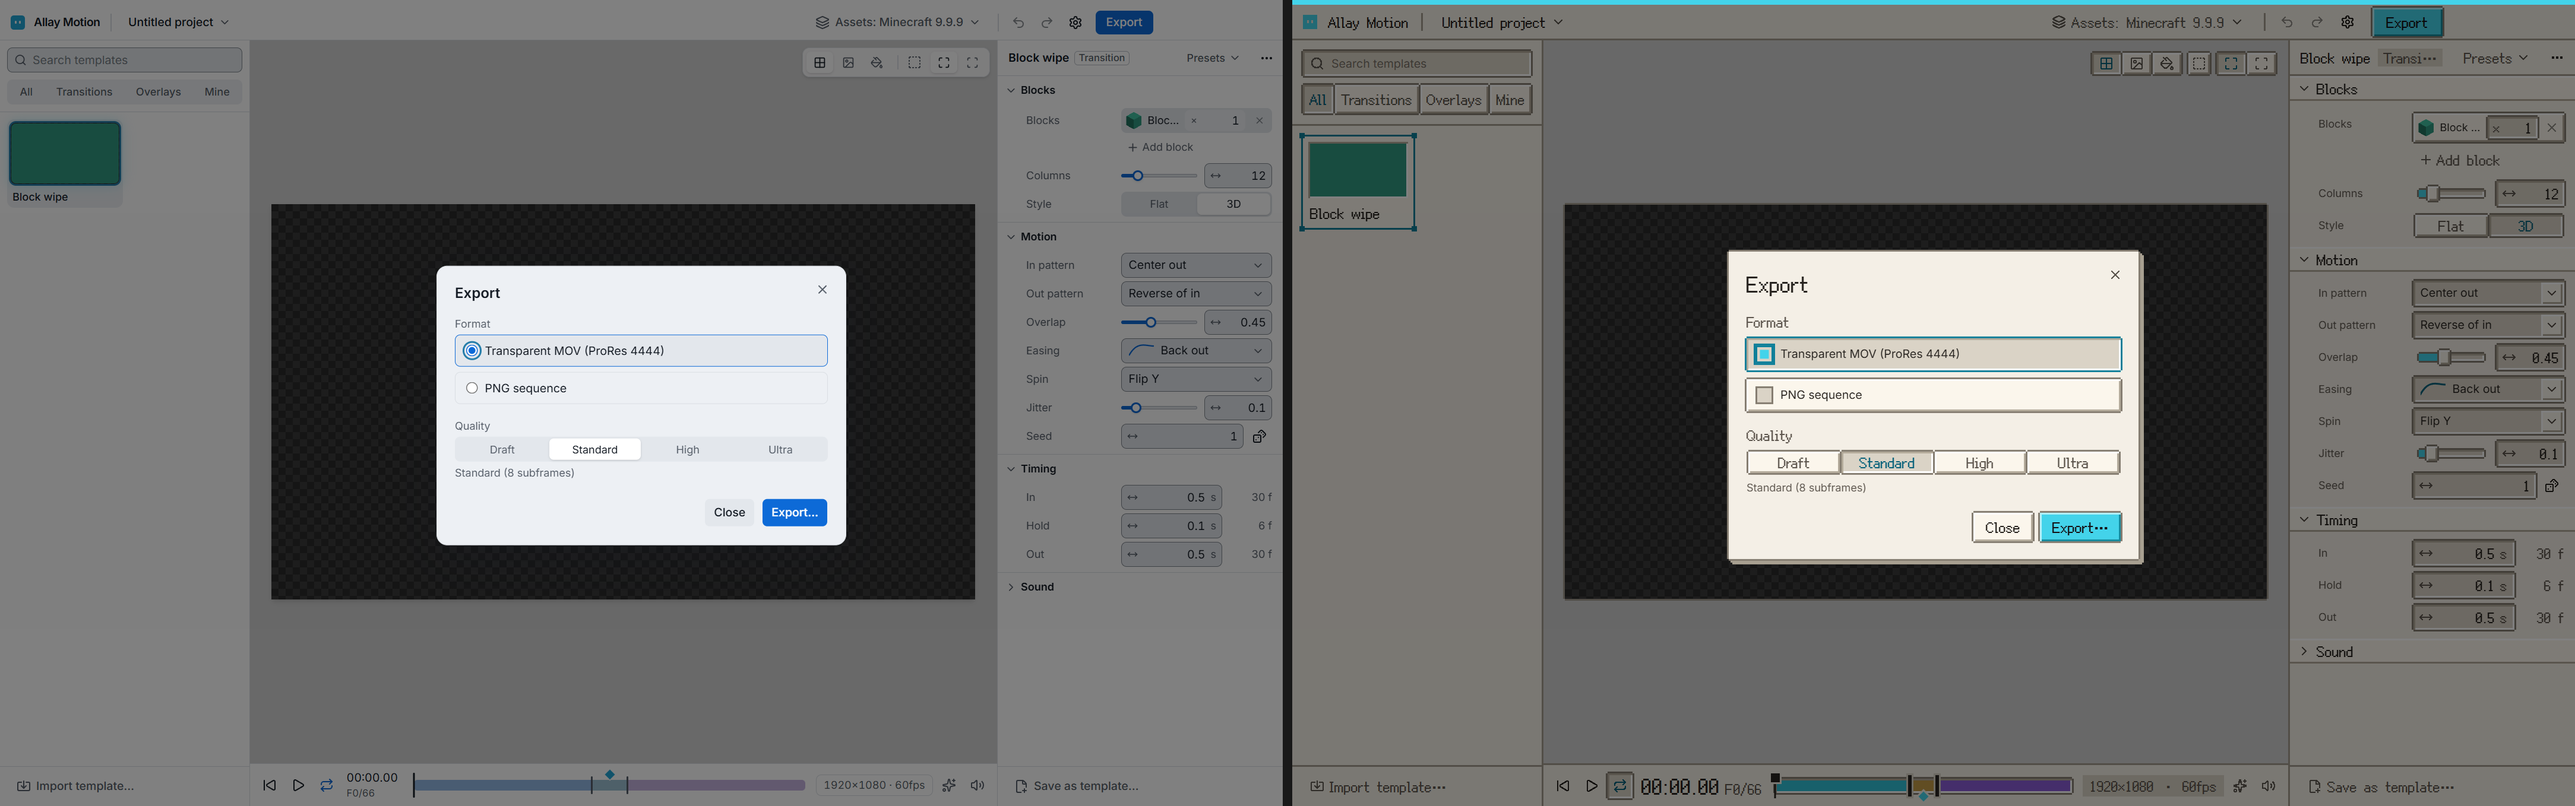
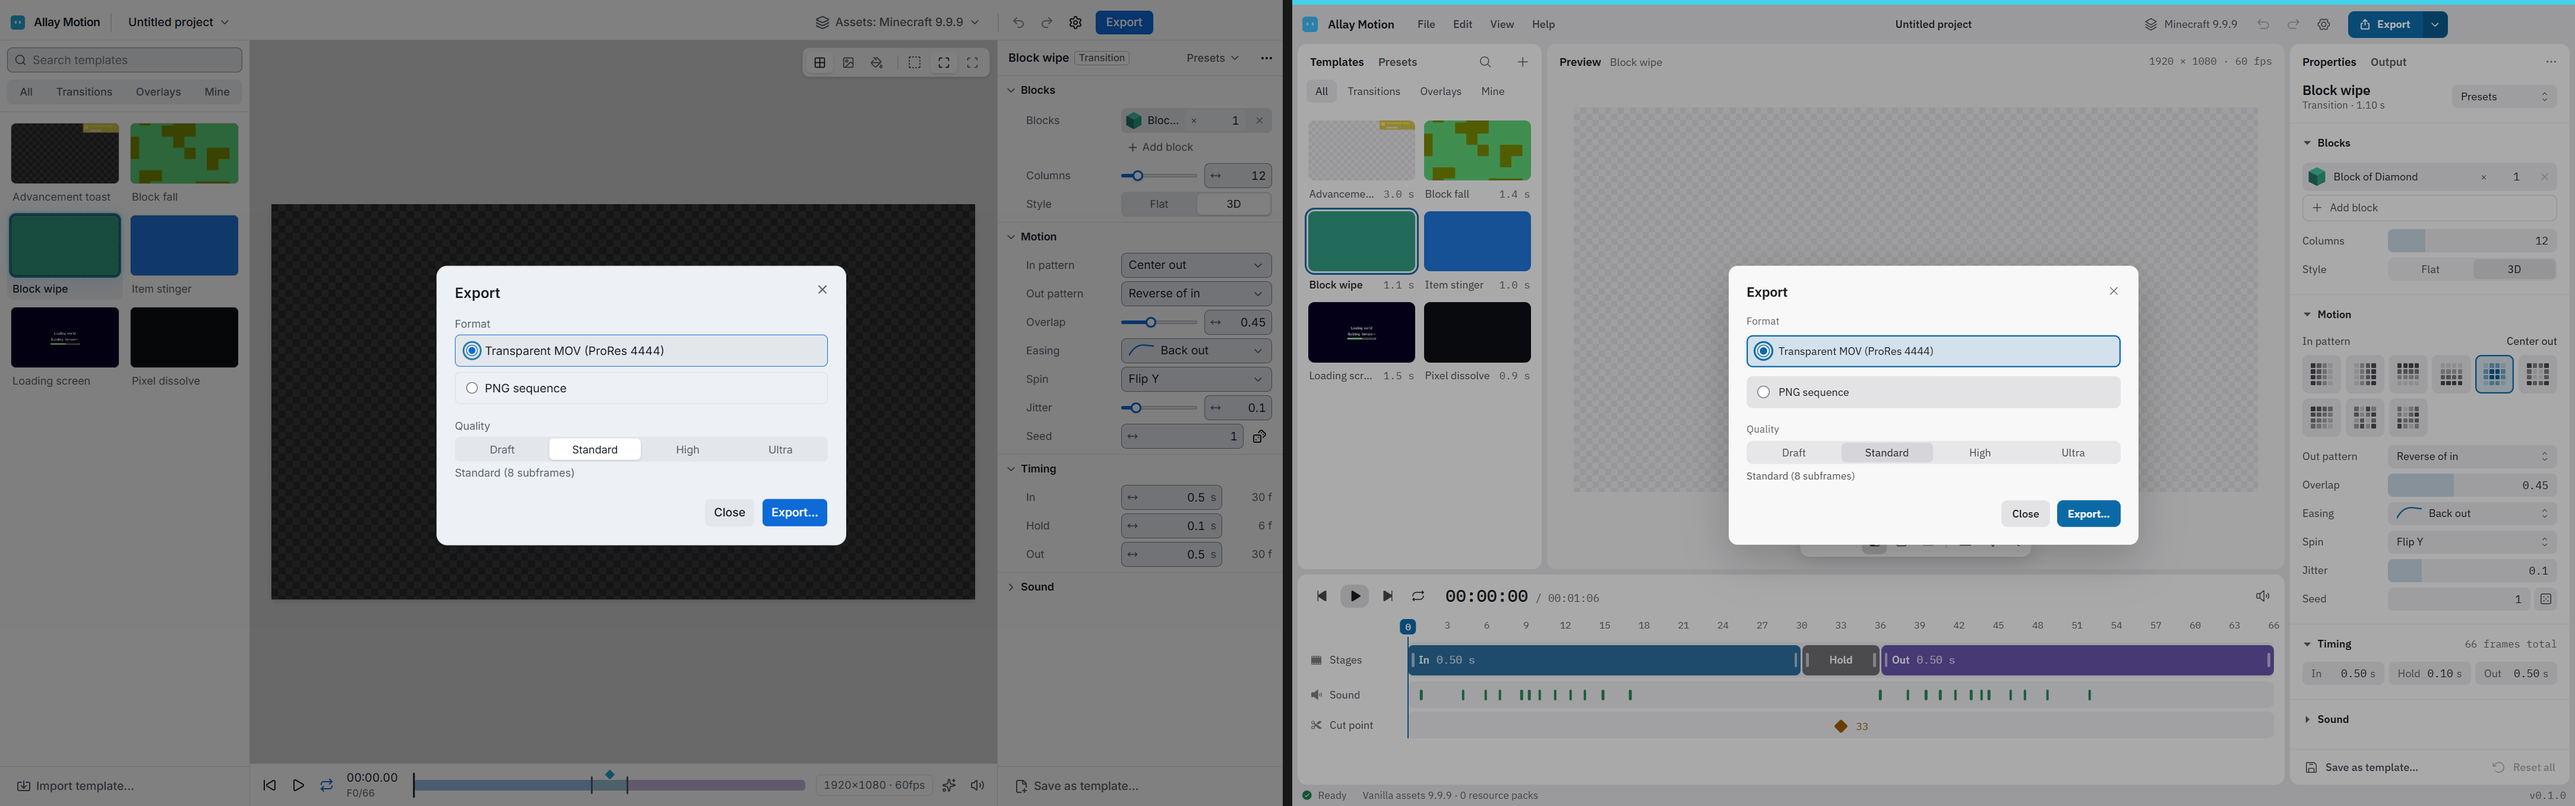
docs: 第四版界面的改前改后对照图、定稿对照图和评审说明

diff --git a/scripts/review-ui-redesign.ts b/scripts/review-ui-redesign.ts
@@ -3,7 +3,9 @@
 //
 //   --shots=<目录>   只截图，把每个场景的 PNG 写进这个目录（改前用旧代码跑一次，改后再跑一次）
 //   --compose=<改前目录>,<改后目录>   把两组截图左右并排拼成 docs/review/ui-redesign/<场景>.png（左改前、右改后）
+//   --design=<定稿图>,<截图>   把定稿图（按截图的高度放大）和实际界面左右并排，写成 docs/review/ui-redesign/design-vs-app.png
 //   --only=<名字片段>   只处理名字含这个片段的场景
+// 新界面独有的场景（菜单、预设页、输出页）在旧界面上用最接近的东西代替：工程菜单、预设下拉、输出规格弹层。
 import { mkdirSync, mkdtempSync, readFileSync, rmSync, writeFileSync } from 'node:fs';
 import { createRequire } from 'node:module';
 import { tmpdir } from 'node:os';
@@ -146,6 +148,35 @@ const SCENES: Scene[] = [
     },
   },
   {
+    name: 'menu-dark-zh',
+    theme: 'dark',
+    language: 'zh-CN',
+    act: async (p) => {
+      await p.getByTestId('project-menu').click();
+      await p.waitForTimeout(400);
+    },
+  },
+  {
+    name: 'presets-dark-en',
+    theme: 'dark',
+    language: 'en',
+    act: async (p) => {
+      if (await p.getByTestId('left-tab-presets').count()) await p.getByTestId('left-tab-presets').click();
+      else await p.getByTestId('preset-menu').click();
+      await p.waitForTimeout(400);
+    },
+  },
+  {
+    name: 'output-light-zh',
+    theme: 'light',
+    language: 'zh-CN',
+    act: async (p) => {
+      if (await p.getByTestId('right-tab-output').count()) await p.getByTestId('right-tab-output').click();
+      else await p.getByTestId('output-badge').click();
+      await p.waitForTimeout(400);
+    },
+  },
+  {
     name: 'export-light-en',
     theme: 'light',
     language: 'en',
@@ -245,13 +276,52 @@ async function compose(beforeDir: string, afterDir: string): Promise<void> {
   }
 }
 
+/** 定稿图与实际界面并排：定稿图按最近邻放大到截图的高度 */
+async function designVsApp(designFile: string, appFile: string): Promise<void> {
+  const d = await readPng(designFile);
+  const a = await readPng(appFile);
+  const k = a.height / d.height;
+  const dw = Math.round(d.width * k);
+  const scaled = new Uint8Array(dw * a.height * 4);
+  for (let y = 0; y < a.height; y++) {
+    const sy = Math.min(d.height - 1, Math.floor(y / k));
+    for (let x = 0; x < dw; x++) {
+      const sx = Math.min(d.width - 1, Math.floor(x / k));
+      scaled.set(d.data.subarray((sy * d.width + sx) * 4, (sy * d.width + sx) * 4 + 4), (y * dw + x) * 4);
+    }
+  }
+  const GAP = 16;
+  const BAR = 8;
+  const width = dw + GAP + a.width;
+  const height = BAR + a.height;
+  const out = new Uint8Array(width * height * 4);
+  for (let i = 0; i < out.length; i += 4) out.set([24, 24, 24, 255], i);
+  for (let y = 0; y < BAR; y++) {
+    for (let x = 0; x < dw; x++) out.set([242, 169, 59, 255], (y * width + x) * 4);
+    for (let x = dw + GAP; x < width; x++) out.set([67, 211, 234, 255], (y * width + x) * 4);
+  }
+  for (let y = 0; y < a.height; y++) {
+    out.set(scaled.subarray(y * dw * 4, (y + 1) * dw * 4), ((y + BAR) * width) * 4);
+    out.set(a.data.subarray(y * a.width * 4, (y + 1) * a.width * 4), ((y + BAR) * width + dw + GAP) * 4);
+  }
+  mkdirSync(REVIEW, { recursive: true });
+  const file = join(REVIEW, 'design-vs-app.png');
+  writeFileSync(file, encodePng({ width, height, data: out }));
+  console.log(`[review:ui-redesign] ${file}`);
+}
+
 const shots = arg('shots');
 const comp = arg('compose');
+const design = arg('design');
 if (shots) await shoot(resolve(shots));
+else if (design) {
+  const [d, a] = design.split(',');
+  await designVsApp(resolve(d!), resolve(a!));
+}
 else if (comp) {
   const [before, after] = comp.split(',');
   await compose(resolve(before!), resolve(after!));
 } else {
-  console.error('用法：--shots=<目录> 或 --compose=<改前目录>,<改后目录>');
+  console.error('用法：--shots=<目录>、--compose=<改前目录>,<改后目录> 或 --design=<定稿图>,<截图>');
   process.exit(1);
 }

diff --git a/docs/review/ui-redesign/README.md b/docs/review/ui-redesign/README.md
@@ -1,35 +1,48 @@
-# 界面重设计评审图（“方块工作台”）
+# 界面重设计评审图（第四版）
 
-每张图左边是改前（M4，`febd084`），右边是改后；顶上的色条左灰右青。全部由 `scripts/review-ui-redesign.ts` 驱动应用截取（隐藏窗口，这台机器的显示缩放是 150%，所以图是 2160×1350），资源栈里只有测试脚本生成的纯色假原版层，不含任何原版贴图。重新生成：先 `pnpm build`，再 `--shots=<目录>` 截改前、改后两组，`--compose=<改前>,<改后>` 拼图。
+- **改前改后**：每张图左边是改前（`main` 上 M4 的界面，六个内置模板），右边是改后；顶上的色条左灰右青。由 `scripts/review-ui-redesign.ts` 驱动应用截取（隐藏窗口，这台机器的缩放是 150%），资源栈里只有测试脚本生成的纯色假原版层，不含原版贴图。
+- **定稿对照**：`design-vs-app.png` 左边是定稿稿 `docs/design/ui-direction-v4.png`（按截图高度放大），右边是实际应用（深色、中文）；顶上的色条左琥珀右青。
 
 | 图 | 内容 |
 |---|---|
 | `main-dark-zh` `main-dark-en` `main-light-zh` `main-light-en` | 主界面，两种主题 × 两种语言 |
-| `block-picker-dark-en` | 方块选择器（格子是凹槽） |
-| `easing-light-zh` | 缓动的自定义贝塞尔编辑器 |
-| `palette-dark-zh` | 命令面板 |
-| `settings-light-en` | 设置 |
-| `resources-dark-zh` | 资源栈弹层 |
-| `error-dark-en` | 模板出错的错误卡片 |
-| `no-assets-light-zh` | 没有素材时的引导 |
-| `mine-empty-dark-zh` | “我的”空状态 |
-| `loading-dark-en` | 预览的加载编排 |
+| `menu-dark-zh` | 顶栏“文件”菜单展开（改前：工程菜单） |
+| `presets-dark-en` | 左面板“预设”页（改前：预设下拉） |
+| `output-light-zh` | 右面板“输出”页（改前：输出规格弹层） |
+| `block-picker-dark-en` `easing-light-zh` | 方块选择器、缓动的自定义曲线 |
+| `palette-dark-zh` `settings-light-en` `resources-dark-zh` | 命令面板、设置、资源栈弹层 |
+| `error-dark-en` `no-assets-light-zh` `mine-empty-dark-zh` `loading-dark-en` | 错误卡片、无素材引导、“我的”空状态、加载编排 |
 | `min-size-light-en` | 最小窗口 1120×700 |
 | `export-dark-zh` `export-light-en` | 导出对话框 |
 
-## 做了什么
+## 由我定的色值（请审）
 
-圆角全为 0；容器和控件是 2 px 缺角描边的方块，凸起和凹陷靠 2 px 的硬边斜面，浮层是 `4px 4px 0` 的硬投影；中性色换成暖紫石头灰和石英/羊皮纸，悦灵青是唯一的强调色，主操作是青色实心块配深色墨字；时间轴的三段是进入青、停留沙、退出紫的平涂色块；标题、按钮、标签页、徽标、数字和时间码用方舟像素字体（12/24，按缩放比例对齐设备像素）；Lucide 图标方头方角、线宽 2.5；过渡 ≤ 120 ms 的分级缓动。规格在 `docs/06-ui-design.md` 6.1、6.2，决定记在 `docs/decisions.md` “界面重设计”。
+深色主题取自定稿稿；浅色主题和功能色是推导的，全部过 `docs/reference/contrast-check.mjs`。
 
-## 偏离方向的地方
+| 变量 | 深色 | 浅色 | 对比度（对面板，深/浅） |
+|---|---|---|---|
+| 底 / 面板 / 次级面 | `#0d0d0e` / `#1a1a1b` / `#202021` | `#dcdcdf` / `#f2f2f3` / `#f8f8f9` | — |
+| 凹槽 / 控件 / 控件高亮 | `#131314` / `#28282a` / `#333336` | `#e7e7e9` / `#e3e3e6` / `#d6d6da` | — |
+| 正文 / 次要 / 第三级文字 | `#f0f0f1` / `#a2a2a6` / `#8b8b91` | `#1b1b1d` / `#46464c` / `#5c5c62` | 15.3 / 6.8 / 5.1；15.4 / 8.4 / 5.9 |
+| 强调色（实心）与其上文字 | `#3cb7f4` 配 `#04212f` | `#0b6aa6` 配白 | 7.3；5.8 |
+| 强调色作文字 | `#3cb7f4` | `#095c90` | 7.7；6.4 |
+| 琥珀 | `#f2a93b` | `#9a5800` | 8.7；5.0 |
+| 危险 / 成功 / 警告 | `#f26b6b` / `#4cc38a` / `#e8c547` | `#c2362f` / `#1d7a4e` / `#806200` | 5.9 / 7.9 / 10.4；4.9 / 4.8 / 5.1 |
 
-- 控件描边用 `#737080`（浅色 `#857D71`）而不是 `#4A4852`：后者对面板只有 1.7:1；`#4A4852` 只给分隔线。危险色、次要文字、浅色主题的青色文字也各调了一档以过对比度（数字见 decisions）。
-- 像素字在 150% 缩放下是 16 px（2 倍点阵），比名义的 12 px 大；参数标签和菜单项仍用 Inter。
-- 中间栏很窄（最小窗口）时，24 的时间码退成两行 12 的像素字。
-- 预览区四周保持无彩色的中性灰。
+axe-core 在两种主题下都是零对比度问题（T-UI-5）。
+
+## 偏离定稿的地方
+
+1. 第三级文字：稿子的 `#6d6d72` 在面板上只有 3.4:1，不能做文字；文字改用 `#8b8b91`，原值只给图标。所以“转场 · 1.10 s”、规格读数、刻度等比稿子略亮。
+2. 面板默认宽度是 280 / 320，稿子是 292 / 336：默认值存在主进程的设置里，这次不改主进程；用户可以拖。
+3. 时间轴没有磁吸和缩放（稿子里画了，是新功能，按要求去掉）。
+4. 规格读数没有“Alpha”：输出设置里没有这个字段，不编造。音效分组标题右侧没有摘要（“放置 · 破坏 · 80%”）。
+5. “翻转”在稿子里是四段的分段控件；我们的选项文字是“竖轴翻转”这类全称，分段放不下，按 4.4 的规则退回下拉。
+6. “退出顺序”仍是下拉：它有“与进入相同 / 相反”两个相对选项，画不成固定的图案。
+7. 对话框里的确认按钮（导出、保存预设、另存为模板、使用原版素材）仍用强调色实心；“全窗口只有导出一个实心强调色按钮”在主窗口里成立。
+8. 预览画面里的方块、模板缩略图、悦灵头像是引擎渲染和占位，与稿子里的示意图不同。
 
 ## 没验证的
 
-- 只在 150% 缩放下看过；100%、125%、200% 只有换算的单元测试。
-- 系统窗口按钮区不在截图里，没在可见窗口里人工看过。
-- Windows 高对比度模式下 `box-shadow` 画的描边会消失，没处理。
+- 只在 150% 缩放下看过；系统窗口按钮区不在截图里，没在可见窗口里人工看过（T-UI-8 自动核对了颜色）。
+- 高对比度模式没处理。
